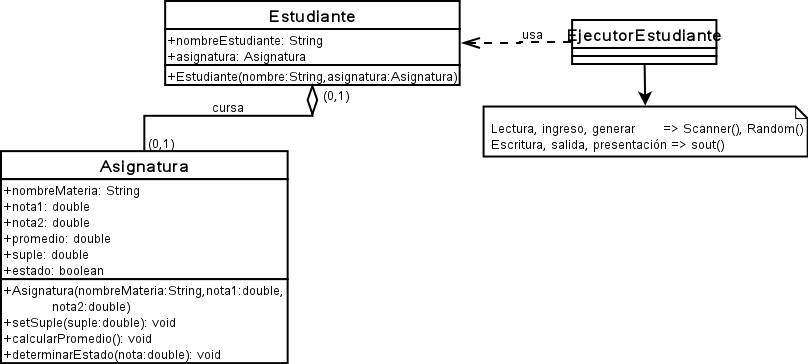
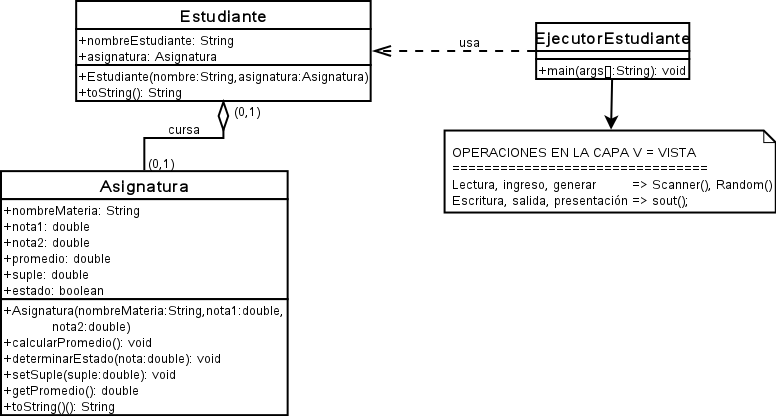
Subiendo proycto

Changed region(s): [[0.0, 0.0, 1.0, 1.0]]

diff --git a/Proyecto_ACDB1-IfCiclos/src/Sol_Agregacion/EjecutorEstudiante.java b/Proyecto_ACDB1-IfCiclos/src/Sol_Agregacion/EjecutorEstudiante.java
@@ -1,37 +1,48 @@
 package Sol_Agregacion;
-
 import java.util.Random;
 import java.util.Scanner;
 
 class Asignatura{
-    public String nombreAsignatura;  public double nota1;  public double nota2;
-    public double promedio;  public double suple;  public boolean estado;
+    public String nombreAsignatura;  
+    public double nota1;  
+    public double nota2;
+    public double promedio;  
+    public double suple;  
+    public boolean estado;
     public Asignatura(String nombreAsignatura, double nota1, double nota2) {
-        this.nombreAsignatura = nombreAsignatura; this.nota1 = nota1; this.nota2 = nota2; }
+        this.nombreAsignatura = nombreAsignatura; this.nota1 = nota1; this.nota2 = nota2; 
+    }
     public void setSuple(double suple) {
-        this.suple = suple;    }
+        this.suple = suple;    
+    }
     public boolean isEstado() {
-        return estado;    }
+        return estado;    
+    }
     public void calcularPromedio(){
-        this.promedio = (this.nota1 + this.nota2) /2; }
+        this.promedio = (this.nota1 + this.nota2) /2; 
+    }
     public void determinarEstado(double nota){
-        this.estado = (nota>7) ? true : false ; }
+        this.estado = (nota>7) ? true : false ; 
+    }
     @Override
     public String toString() {
         return String.format("Asignatura{nombreAsignatura=%s, nota1=%.2f, nota2=%.2f, "
                            + "promedio=%.2f, suple=%.2f, estado=%s}", 
                             this.nombreAsignatura, this.nota1, this.nota2, 
-                            this.promedio, this.suple, this.estado); }    
+                            this.promedio, this.suple, this.estado); 
+    }    
 }
 class Estudiante{
     public String nombreEst;
     public Asignatura asignatura;
     public Estudiante(String nombreEst, Asignatura asignatura) {
         this.nombreEst = nombreEst;
-        this.asignatura = asignatura; }
+        this.asignatura = asignatura; 
+    }
     @Override
     public String toString() {
-        return "Estudiante{" + "nombreEst=" + nombreEst + ", asignatura=" + asignatura + '}'; }
+        return "Estudiante{" + "nombreEst=" + nombreEst + ", asignatura=" + asignatura + '}'; 
+    }
 }
 public class EjecutorEstudiante {
     public static void main(String[] args) {
